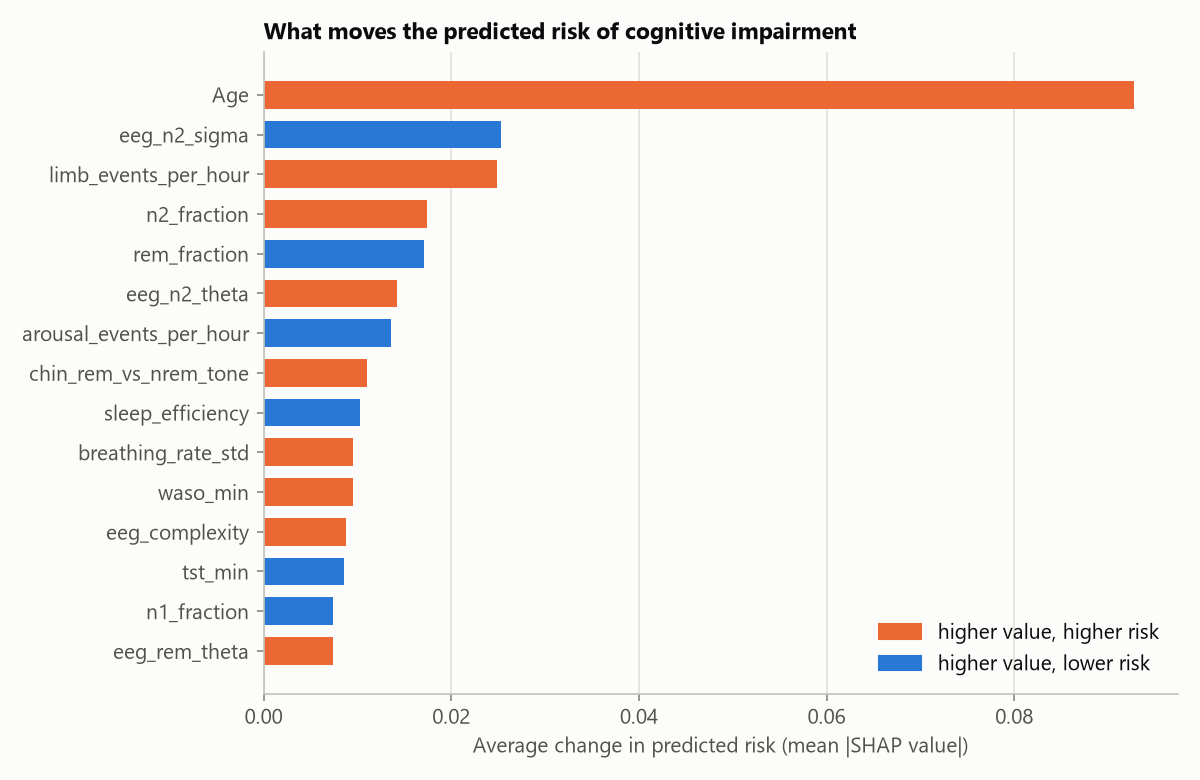
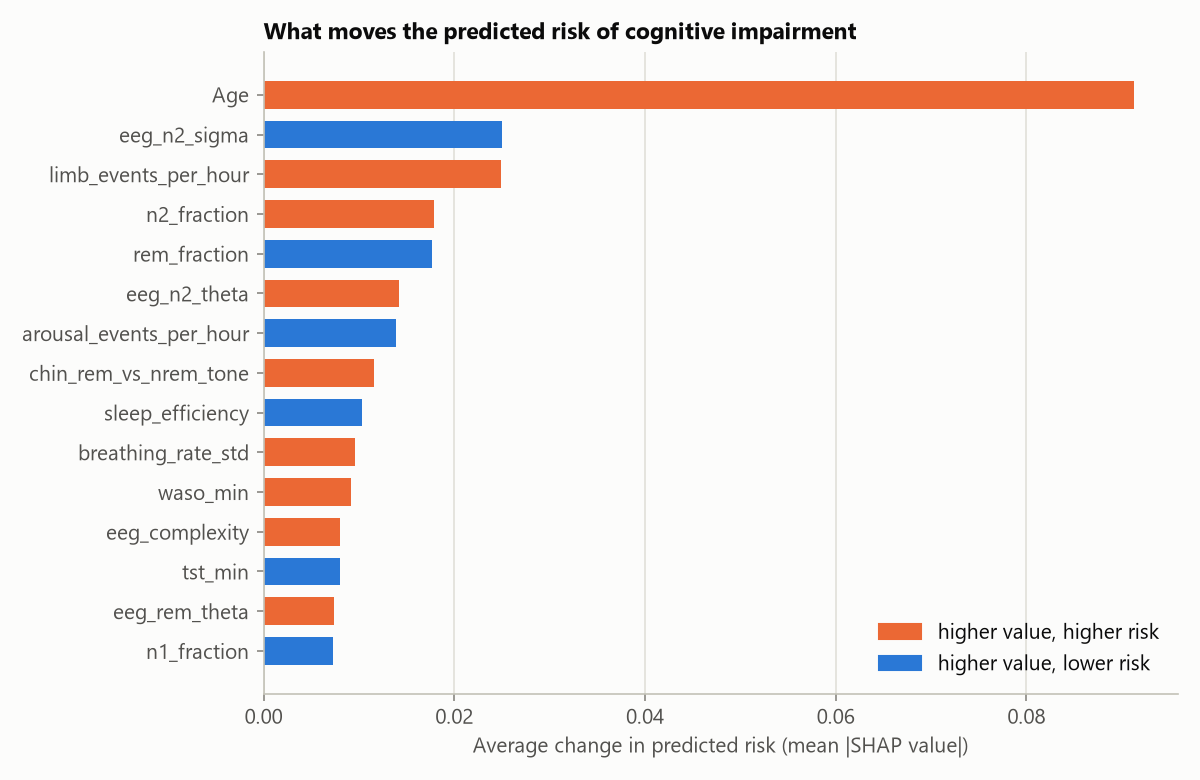
Drop broken nights and cap extreme feature values before modelling
Nights with under two hours of scored sleep are dropped, flat EEG
channels count as missing, and the logistic regression caps each
feature at its training 1st/99th percentile. Age-conditioned AUROC
on the large set moves from 0.667 to 0.672; results, README and demo
page updated, and the small-set result files are now committed.

diff --git a/demo.html b/demo.html
@@ -54,7 +54,7 @@ impairment later, beyond what age alone tells us?</strong></p>
 
 <div class="tiles">
   <div class="tile"><b>82.4%</b><span>sleep-stage accuracy on people the network never saw</span></div>
-  <div class="tile"><b>6,522</b><span>sleep studies from 3 hospitals</span></div>
+  <div class="tile"><b>6,429</b><span>sleep studies from 3 hospitals</span></div>
   <div class="tile"><b>0.67 vs 0.53</b><span>sleep model vs age alone, comparing people of the same age</span></div>
   <div class="tile"><b>3 of 3</b><span>unseen hospitals where the model beats age alone</span></div>
 </div>
@@ -197,10 +197,10 @@ they were later diagnosed with cognitive impairment.</p>
 <div class="table-wrap">
 <table>
   <tr><th>Hospital</th><th class="num">People</th><th class="num">Later impaired</th><th class="num">Rate</th></tr>
-  <tr><td>I0002</td><td class="num">317</td><td class="num">51</td><td class="num">16.1%</td></tr>
-  <tr><td>I0006</td><td class="num">1,133</td><td class="num">112</td><td class="num">9.9%</td></tr>
-  <tr><td>S0001</td><td class="num">5,072</td><td class="num">334</td><td class="num">6.6%</td></tr>
-  <tr class="best"><td>Total</td><td class="num">6,522</td><td class="num">497</td><td class="num">7.6%</td></tr>
+  <tr><td>I0002</td><td class="num">307</td><td class="num">51</td><td class="num">16.6%</td></tr>
+  <tr><td>I0006</td><td class="num">1,122</td><td class="num">111</td><td class="num">9.9%</td></tr>
+  <tr><td>S0001</td><td class="num">5,000</td><td class="num">325</td><td class="num">6.5%</td></tr>
+  <tr class="best"><td>Total</td><td class="num">6,429</td><td class="num">487</td><td class="num">7.6%</td></tr>
 </table>
 </div>
 <div class="box">
@@ -211,7 +211,7 @@ they were later diagnosed with cognitive impairment.</p>
   signal is discarded. Recordings are processed by parallel worker processes, the table is checkpointed
   every few recordings so a long run can resume, and the work can be split into shards. The result is a
   2.6 MB table with one row per night. <strong>Stage 2, modelling,</strong> then runs on this small table
-  in seconds. Extraction took about 3 hours; 78 of 6,600 recordings could not be read and were skipped.</p>
+  in seconds. Extraction took about 3 hours; 78 of 6,600 recordings could not be read and were skipped, and 93 nights with under two hours of scored sleep were dropped as too short to measure.</p>
   <p>Two other properties shape the method. First, the classes are <strong>imbalanced</strong>: only 7.6% of
   people became impaired, so a model that always says "healthy" would be 92% accurate and useless. Second,
   the hospitals use <strong>different equipment and channel names</strong>, so the code has to recognise
@@ -295,18 +295,18 @@ score a high AUROC just by guessing age from sleep. Age alone already reaches an
   and anything above that comes from the sleep recording itself.</p>
   <p>A stricter version, <strong>same-hospital</strong>, also requires both people to come from the same
   hospital. This stops the model from scoring points just by recognising which hospital a recording came
-  from, since impairment rates differ between hospitals (6.6% to 16.1%).</p>
+  from, since impairment rates differ between hospitals (6.5% to 16.6%).</p>
 </div>
 
 <h2 id="results">8. Results</h2>
-<h3>Cross-validation (6,522 people)</h3>
+<h3>Cross-validation (6,429 people)</h3>
 <div class="table-wrap">
 <table>
   <tr><th>Model</th><th class="num">Age-cond. AUROC</th><th class="num">Same hospital</th><th class="num">AUROC</th><th class="num">AUPRC</th></tr>
-  <tr><td>Age only</td><td class="num">0.531 ± 0.003</td><td class="num">0.532</td><td class="num">0.774</td><td class="num">0.231</td></tr>
-  <tr class="best"><td>Logistic regression</td><td class="num">0.667 ± 0.006</td><td class="num">0.642</td><td class="num">0.802</td><td class="num">0.299</td></tr>
-  <tr><td>Random forest</td><td class="num">0.650 ± 0.006</td><td class="num">0.624</td><td class="num">0.790</td><td class="num">0.267</td></tr>
-  <tr><td>XGBoost</td><td class="num">0.625 ± 0.008</td><td class="num">0.597</td><td class="num">0.784</td><td class="num">0.259</td></tr>
+  <tr><td>Age only</td><td class="num">0.528 ± 0.005</td><td class="num">0.529</td><td class="num">0.774</td><td class="num">0.232</td></tr>
+  <tr class="best"><td>Logistic regression</td><td class="num">0.672 ± 0.005</td><td class="num">0.647</td><td class="num">0.805</td><td class="num">0.309</td></tr>
+  <tr><td>Random forest</td><td class="num">0.653 ± 0.004</td><td class="num">0.624</td><td class="num">0.792</td><td class="num">0.269</td></tr>
+  <tr><td>XGBoost</td><td class="num">0.627 ± 0.007</td><td class="num">0.596</td><td class="num">0.785</td><td class="num">0.262</td></tr>
 </table>
 </div>
 <p>All three sleep models clearly beat age alone. Among people of the same age, the logistic regression
@@ -328,8 +328,8 @@ does not.</p>
 <div class="table-wrap">
 <table>
   <tr><th>Model</th><th class="num">Recall</th><th class="num">Specificity</th><th class="num">Precision</th><th class="num">Accuracy</th></tr>
-  <tr><td>Age only</td><td class="num">55.3%</td><td class="num">82.4%</td><td class="num">20.6%</td><td class="num">80.4%</td></tr>
-  <tr class="best"><td>Logistic regression</td><td class="num">61.4%</td><td class="num">83.4%</td><td class="num">23.4%</td><td class="num">81.7%</td></tr>
+  <tr><td>Age only</td><td class="num">55.6%</td><td class="num">82.4%</td><td class="num">20.6%</td><td class="num">80.4%</td></tr>
+  <tr class="best"><td>Logistic regression</td><td class="num">61.9%</td><td class="num">83.4%</td><td class="num">23.5%</td><td class="num">81.8%</td></tr>
 </table>
 </div>
 <p><strong>Recall</strong>: share of people who became impaired that the model flagged.
@@ -341,16 +341,16 @@ people with fewer false alarms.</p>
 <div class="table-wrap">
 <table>
   <tr><th>Hospital held out</th><th class="num">People</th><th class="num">Age only</th><th class="num">Logistic regression</th><th class="num">Random forest</th><th class="num">XGBoost</th></tr>
-  <tr><td>I0002</td><td class="num">317</td><td class="num">0.518</td><td class="num"><b>0.762</b></td><td class="num">0.711</td><td class="num">0.658</td></tr>
-  <tr><td>I0006</td><td class="num">1,133</td><td class="num">0.533</td><td class="num"><b>0.690</b></td><td class="num">0.661</td><td class="num">0.620</td></tr>
-  <tr><td>S0001</td><td class="num">5,072</td><td class="num">0.537</td><td class="num">0.565</td><td class="num"><b>0.577</b></td><td class="num">0.530</td></tr>
+  <tr><td>I0002</td><td class="num">307</td><td class="num">0.518</td><td class="num"><b>0.781</b></td><td class="num">0.708</td><td class="num">0.678</td></tr>
+  <tr><td>I0006</td><td class="num">1,122</td><td class="num">0.535</td><td class="num">0.663</td><td class="num"><b>0.678</b></td><td class="num">0.633</td></tr>
+  <tr><td>S0001</td><td class="num">5,000</td><td class="num">0.537</td><td class="num">0.572</td><td class="num"><b>0.577</b></td><td class="num">0.542</td></tr>
 </table>
 </div>
 <p class="meta">Age-conditioned AUROC on the held-out hospital.</p>
 <p>The sleep models beat age alone at every hospital, which is the strongest evidence that they learned
 something about sleep rather than about one hospital. The gain is small for S0001. A likely reason is that
-when S0001 is held out, the model trains on only 1,450 people (the other two hospitals) and is asked to
-predict 5,072, from a hospital with a lower impairment rate and possibly different equipment.</p>
+when S0001 is held out, the model trains on only 1,429 people (the other two hospitals) and is asked to
+predict 5,000, from a hospital with a lower impairment rate and possibly different equipment.</p>
 
 <h2 id="explain">9. Explaining the predictions</h2>
 <p>A doctor will not trust a risk score without reasons. <strong>SHAP</strong> (SHapley Additive
@@ -384,28 +384,28 @@ real biological signal and not a recording artefact.</p>
 <div class="table-wrap">
 <table>
   <tr><th>Group</th><th class="num">People</th><th class="num">Later impaired</th><th class="num">Rate</th><th class="num">vs average</th></tr>
-  <tr><td>Low risk (bottom 70%)</td><td class="num">4,565</td><td class="num">145</td><td class="num">3.2%</td><td class="num">0.4×</td></tr>
-  <tr><td>Moderate risk (next 20%)</td><td class="num">1,304</td><td class="num">170</td><td class="num">13.0%</td><td class="num">1.7×</td></tr>
-  <tr class="best"><td>High risk (top 10%)</td><td class="num">653</td><td class="num">182</td><td class="num">27.9%</td><td class="num">3.7×</td></tr>
-  <tr><td>Everyone</td><td class="num">6,522</td><td class="num">497</td><td class="num">7.6%</td><td class="num">1.0×</td></tr>
+  <tr><td>Low risk (bottom 70%)</td><td class="num">4,500</td><td class="num">128</td><td class="num">2.8%</td><td class="num">0.4×</td></tr>
+  <tr><td>Moderate risk (next 20%)</td><td class="num">1,286</td><td class="num">178</td><td class="num">13.8%</td><td class="num">1.8×</td></tr>
+  <tr class="best"><td>High risk (top 10%)</td><td class="num">643</td><td class="num">181</td><td class="num">28.1%</td><td class="num">3.7×</td></tr>
+  <tr><td>Everyone</td><td class="num">6,429</td><td class="num">487</td><td class="num">7.6%</td><td class="num">1.0×</td></tr>
 </table>
 </div>
-<p>People in the high-risk group were 8.7 times as likely to become impaired as people in the low-risk group.</p>
+<p>People in the high-risk group were 10 times as likely to become impaired as people in the low-risk group.</p>
 
 <h3>Example: one person's explanation</h3>
-<p>Age 86 · predicted risk <b>0.79 (high)</b> · actual outcome: <b>later impaired</b></p>
+<p>Age 86 · predicted risk <b>0.77 (high)</b> · actual outcome: <b>later impaired</b></p>
 <div class="table-wrap">
 <table>
   <tr><th>Reason</th><th class="num">This person</th><th class="num">Typical</th><th class="num">Effect on risk</th></tr>
-  <tr><td>Age</td><td class="num">86</td><td class="num">61</td><td class="num">+0.127</td></tr>
-  <tr><td>Sigma (spindle) power in N2, log scale</td><td class="num">−1.78</td><td class="num">−1.42</td><td class="num">+0.062</td></tr>
-  <tr><td>Share of night in N2</td><td class="num">82%</td><td class="num">61%</td><td class="num">+0.054</td></tr>
-  <tr><td>Limb movements per hour</td><td class="num">392</td><td class="num">106</td><td class="num">+0.044</td></tr>
-  <tr><td>Share of night in REM</td><td class="num">7%</td><td class="num">15%</td><td class="num">+0.035</td></tr>
+  <tr><td>Age</td><td class="num">86</td><td class="num">61</td><td class="num">+0.120</td></tr>
+  <tr><td>Sigma (spindle) power in N2, log scale</td><td class="num">−1.78</td><td class="num">−1.42</td><td class="num">+0.066</td></tr>
+  <tr><td>Share of night in N2</td><td class="num">82%</td><td class="num">61%</td><td class="num">+0.063</td></tr>
+  <tr><td>Limb movements per hour</td><td class="num">392</td><td class="num">104</td><td class="num">+0.040</td></tr>
+  <tr><td>EEG complexity</td><td class="num">3.33</td><td class="num">2.63</td><td class="num">+0.020</td></tr>
 </table>
 </div>
-<p>This reads like a clinical note: very old, few spindles, too much light sleep, very little REM, and
-heavily disturbed by leg movements.</p>
+<p>This reads like a clinical note: very old, few spindles, too much light sleep and heavily disturbed
+by leg movements.</p>
 
 <h2 id="lessons">10. Lessons and pitfalls</h2>
 <div class="box warn">
@@ -418,17 +418,17 @@ heavily disturbed by leg movements.</p>
 </div>
 <div class="box">
   <h4>Lesson 2: more data turned a null result into a real one</h4>
-  <p>On the first, smaller release (1,087 people, 84 impaired), no model clearly beat age:</p>
+  <p>On the first, smaller release (1,067 people, 80 impaired), the gain over age was small and noisy:</p>
   <div class="table-wrap">
   <table>
-    <tr><th>Age-conditioned AUROC</th><th class="num">Small set (1,087)</th><th class="num">Large set (6,522)</th></tr>
-    <tr><td>Age only</td><td class="num">0.494</td><td class="num">0.531</td></tr>
-    <tr><td>Logistic regression</td><td class="num">0.533</td><td class="num">0.667</td></tr>
-    <tr><td>Random forest</td><td class="num">0.530</td><td class="num">0.650</td></tr>
-    <tr><td>XGBoost</td><td class="num">0.484</td><td class="num">0.625</td></tr>
+    <tr><th>Age-conditioned AUROC</th><th class="num">Small set (1,067)</th><th class="num">Large set (6,429)</th></tr>
+    <tr><td>Age only</td><td class="num">0.504</td><td class="num">0.528</td></tr>
+    <tr><td>Logistic regression</td><td class="num">0.568</td><td class="num">0.672</td></tr>
+    <tr><td>Random forest</td><td class="num">0.549</td><td class="num">0.653</td></tr>
+    <tr><td>XGBoost</td><td class="num">0.502</td><td class="num">0.627</td></tr>
   </table>
   </div>
-  <p>With only 84 positive cases, a weak signal spread over 51 inputs is lost in noise. Six times more
+  <p>With only 80 positive cases, a weak signal spread over 51 inputs is lost in noise. Six times more
   people made it visible. This is why the full 1.2 TB dataset was processed rather than settling for
   the small sample.</p>
 </div>
@@ -443,7 +443,7 @@ heavily disturbed by leg movements.</p>
   <li><strong>Screening, not diagnosis.</strong> Even in the high-risk group, about 3 in 4 people did not
       become impaired. The model points to who should be followed up, not who is ill.</li>
   <li><strong>Weak result at the largest hospital.</strong> When S0001 is held out, the gain over age is
-      small (0.565 vs 0.537).</li>
+      small (0.572 vs 0.537).</li>
   <li><strong>Clinical population.</strong> Everyone was referred to a sleep lab, usually for a suspected
       sleep disorder, so results may not apply to the general population.</li>
   <li><strong>Hand-designed features.</strong> The 49 measurements only capture what we thought to measure.</li>

diff --git a/hsp_baseline.py b/hsp_baseline.py
@@ -19,6 +19,11 @@ cannot be gained that way.
 
 For the yes/no scores each model flags the 20% of people it rates at highest risk.
 
+Broken recordings are cleaned first: nights with under two hours of scored sleep are dropped,
+EEG features from a flat channel are treated as missing, and the linear model caps every
+feature at the 1st and 99th percentile of its training data, so a few impossible values
+(10,000 limb movements an hour) cannot dominate it.
+
 The data folder defaults to data/hsp (the small training set); data/hsp_large holds the
 large one. Saves <folder name>_baseline_report.txt and <folder name>_baseline_curves.png
 to results/.
@@ -29,7 +34,7 @@ from pathlib import Path
 
 import numpy as np
 import pandas as pd
-from sklearn.base import clone
+from sklearn.base import BaseEstimator, TransformerMixin, clone
 from sklearn.ensemble import RandomForestClassifier
 from sklearn.impute import SimpleImputer
 from sklearn.linear_model import LogisticRegression
@@ -49,6 +54,20 @@ AGE_GAP = 2  # years; the Challenge compares people at most this far apart in ag
 FLAGGED_SHARE = 0.2  # the yes/no scores flag this share of people, the ones at highest risk
 FOLDS, REPEATS = 5, 10
 SEED = 0
+MIN_SLEEP_MINUTES = 120  # shorter nights are too little sleep to measure; dropped
+FLAT_EEG = -11.9  # hsp_features writes log10(1e-12) = -12 when an EEG channel carries no power
+CLIP_QUANTILES = (0.01, 0.99)
+
+
+class Clip(BaseEstimator, TransformerMixin):
+    """Caps each feature at quantiles learned from the training data (missing values stay missing)."""
+
+    def fit(self, X, y=None):
+        self.low_, self.high_ = np.nanquantile(np.asarray(X, dtype=float), CLIP_QUANTILES, axis=0)
+        return self
+
+    def transform(self, X):
+        return np.clip(np.asarray(X, dtype=float), self.low_, self.high_)
 
 
 def load_table(data_dir: Path = DEFAULT_DATA_DIR) -> tuple[pd.DataFrame, list[str]]:
@@ -61,6 +80,9 @@ def load_table(data_dir: Path = DEFAULT_DATA_DIR) -> tuple[pd.DataFrame, list[st
     table = features.merge(demographics[KEYS + ["Age", "Sex", "BMI", "Cognitive_Impairment"]], on=KEYS)
     table["male"] = table["Sex"].str.lower().str.startswith("m").astype(float)
     table["label"] = table["Cognitive_Impairment"].astype(int)
+    table = table[table["tst_min"] >= MIN_SLEEP_MINUTES].reset_index(drop=True)
+    eeg = [c for c in table.columns if c.startswith("eeg_")]
+    table[eeg] = table[eeg].mask(table[eeg] <= FLAT_EEG)
     # BMI is left out on purpose: at the largest hospital it is missing for 94% of the people who stayed
     # healthy but only 35% of those later impaired, so a model scores well just from whether it was recorded.
     names = [c for c in features.columns if c not in KEYS] + ["Age", "male"]
@@ -73,7 +95,7 @@ def make_models(positive_share: float) -> dict:
     return {
         "age only": (make_pipeline(StandardScaler(), LogisticRegression(**balanced)), False),
         "logistic regression": (
-            make_pipeline(SimpleImputer(strategy="median"), StandardScaler(),
+            make_pipeline(Clip(), SimpleImputer(strategy="median"), StandardScaler(),
                           LogisticRegression(C=0.1, max_iter=2000, **balanced)), True),
         "random forest": (
             make_pipeline(SimpleImputer(strategy="median"),

diff --git a/predict.py b/predict.py
@@ -29,14 +29,13 @@ from sklearn.base import clone
 from sklearn.model_selection import StratifiedKFold, cross_val_predict
 
 import hsp_features
-from hsp_baseline import FOLDS, SEED, load_table, make_models
+from hsp_baseline import FOLDS, MIN_SLEEP_MINUTES, SEED, load_table, make_models
 from hsp_explain import HIGH_SHARE, MODERATE_SHARE
 
 MODEL_FILE = Path("checkpoints/cognitive_model.joblib")
 QUANTILES = np.linspace(0, 1, 101)
 AGE_BAND = 5  # years; same-age comparisons use risk percentiles stored per band, not individual people
 REASONS = 5
-SHORT_NIGHT_MINUTES = 120
 
 
 def train(data_dir: Path) -> None:
@@ -110,9 +109,9 @@ def report(features: dict, age: float, sex: str) -> None:
                  f"impaired, against {100 * saved['overall_rate']:.1f}% of everyone)")
 
     # A logistic regression's SHAP values: each feature's coefficient times its standardised value (log-odds).
-    imputer, scaler, regression = (step for _, step in model.steps)
-    contributions = regression.coef_[0] * scaler.transform(imputer.transform(person))[0]
-    if features.get("tst_min", np.inf) < SHORT_NIGHT_MINUTES:
+    clip, imputer, scaler, regression = (step for _, step in model.steps)
+    contributions = regression.coef_[0] * scaler.transform(imputer.transform(clip.transform(person)))[0]
+    if features.get("tst_min", np.inf) < MIN_SLEEP_MINUTES:
         lines.append(f"warning: only {features['tst_min']:.0f} minutes of sleep were scored, so this result is unreliable")
     lines.append("\nwhat moved the risk most:")
     for column in np.argsort(-np.abs(contributions))[:REASONS]:
@@ -120,7 +119,7 @@ def report(features: dict, age: float, sex: str) -> None:
         shown = "missing" if pd.isna(value) else f"{value:.3g}"
         effect = "raises" if contributions[column] > 0 else "lowers"
         lines.append(f"  {name:<30} {shown:>8}  (typical {saved['medians'][name]:.3g})  {effect} risk")
-    lines.append("\nA research model (age-conditioned AUROC 0.667), not a diagnosis.")
+    lines.append("\nA research model (age-conditioned AUROC 0.672), not a diagnosis.")
     print("\n".join(lines))
 
 

diff --git a/README.md b/README.md
@@ -44,7 +44,7 @@ This project answers in two stages:
 ## Highlights
 
 - **82.4% sleep-stage accuracy** (Cohen's κ 0.767) on 20 recordings the network never saw.
-- **Beats age alone** at predicting later cognitive impairment: age-conditioned AUROC **0.667** vs **0.531**, across **6,522 people** from **3 hospitals**.
+- **Beats age alone** at predicting later cognitive impairment: age-conditioned AUROC **0.672** vs **0.528**, across **6,429 people** from **3 hospitals**.
 - **Tested on unseen hospitals:** each hospital is held out of training in turn and used as the test set.
 - **Explainable:** SHAP shows which sleep signals raise or lower each person's risk.
 - **Scales to 1.2 TB:** feature extraction streams one night at a time, in parallel, with checkpoints.
@@ -96,14 +96,16 @@ baseline, because age alone already predicts impairment.
 
 ### Stage 2: cognitive impairment
 
-6,522 people, 497 later impaired (7.6%).
+6,429 people, 487 later impaired (7.6%), after dropping 93 nights with under two hours of
+scored sleep. Flat EEG channels count as missing, and the linear model caps every feature at
+its 1st and 99th percentile so a few broken recordings cannot dominate it.
 
 | Age-conditioned AUROC | Age only | Logistic regression |
 |---|---|---|
-| 5-fold cross-validation × 10 | 0.531 | **0.667** |
-| Held-out hospital I0002 (317 people) | 0.518 | **0.762** |
-| Held-out hospital I0006 (1,133 people) | 0.533 | **0.690** |
-| Held-out hospital S0001 (5,072 people) | 0.537 | **0.565** |
+| 5-fold cross-validation × 10 | 0.528 | **0.672** |
+| Held-out hospital I0002 (307 people) | 0.518 | **0.781** |
+| Held-out hospital I0006 (1,122 people) | 0.535 | **0.663** |
+| Held-out hospital S0001 (5,000 people) | 0.537 | **0.572** |
 
 > **Why age-conditioned?** It only compares people within 2 years of age of each other, so it
 > measures what sleep adds beyond age. 0.5 = guessing. Random forest and XGBoost were also
@@ -180,8 +182,8 @@ python predict.py table data/hsp_large/hsp_features.csv <record> --age 67 --sex 
 ```
 
 The output gives a risk score, the person's rank overall and among people of the same age, their
-risk group, and the five features that moved the risk most. In cross-validation, 31.7% of the high
-group were later impaired, against 3.0% of the low group.
+risk group, and the five features that moved the risk most. In cross-validation, 33.3% of the high
+group were later impaired, against 2.8% of the low group.
 
 ## Project structure
 
@@ -211,7 +213,7 @@ group were later impaired, against 3.0% of the low group.
 
 - **Research model, not a diagnosis.** It reflects patterns across many people and must not be
   used to make decisions about an individual's health.
-- Performance varies by hospital (age-conditioned AUROC 0.565–0.762), so results may not
+- Performance varies by hospital (age-conditioned AUROC 0.572–0.781), so results may not
   transfer to new sites without checking.
 - BMI is left out on purpose: whether it was recorded at all gave away the label.
 
